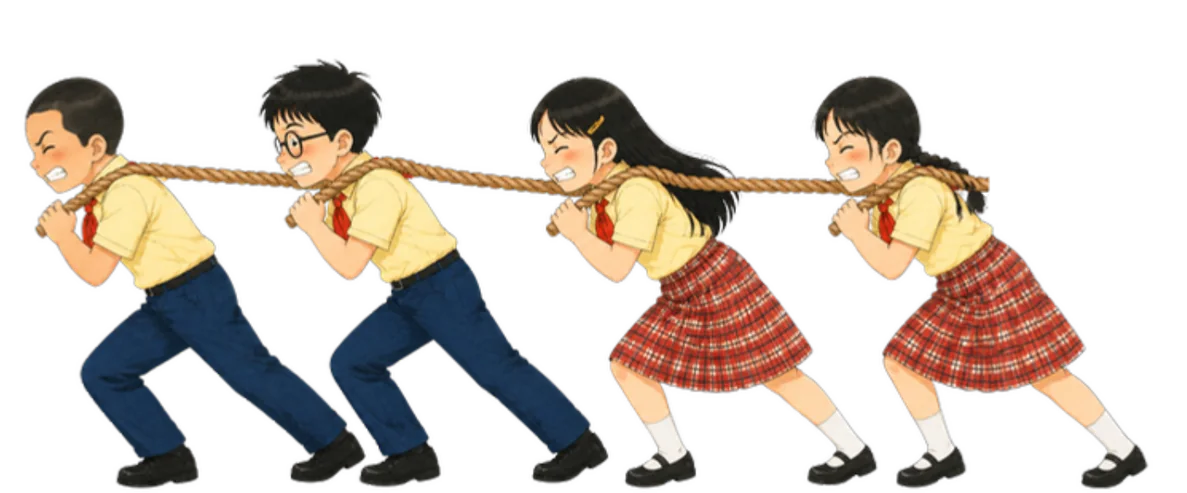
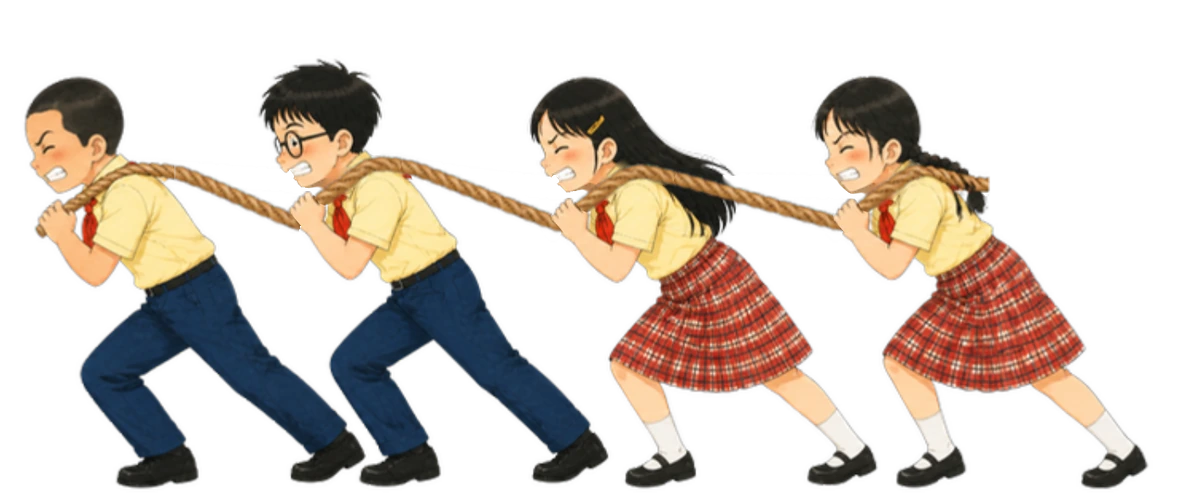
Kéo co: bản 17 (27/11), giữa dây là cái nơ vô cực (bỏ bốn lá cờ và bốn dấu + − × ÷), đuôi nơ ngắn, nút nơ đúng vạch giữa, bỏ hơi kéo thêm lúc cuối; đội áo vàng câu 4, câu 5 vắt dây qua vai liền một sợi; đội đồ thể dục lúc kéo vẽ to bằng đội áo vàng; luật chơi: đưa cái nơ về phía đội mình; thầy duyệt
Gộp ba bản thử ở nhánh phụ: claude/keo-co-ban-15 (0ed69ba, lời thầy 9:53, 9:55, 9:56), claude/keo-co-ban-16 (5ac6fe7, lời thầy 10:45), claude/keo-co-ban-17 (8b696ae, lời thầy 11:16).

Claude-Session: https://claude.ai/code/session_01GiuFNPG9BDcgRRyX99famq

Changed region(s): [[0.1247, 0.3043, 0.7793, 0.4868]]

diff --git a/keo-co/js/keo-co.js b/keo-co/js/keo-co.js
@@ -61,17 +61,34 @@
   //   chui ra sau bím tóc bạn đứng trong cùng (nam.ha mới). dayTT: sợi dây trong hình của tư thế đó dày bao nhiêu điểm ảnh gốc khi khác
   //   vanH (khúc dây trang tự vẽ thu theo cho khít); chanTT: chỗ bàn chân của tư thế đó khi khác CHAN_F. Hình "ha" của đội áo thể dục
   //   (ngả người ra sau, dây ngang ngực) thầy không nhắc tới: giữ nguyên.
+  //   27/11/2026 10:45 thầy Thịnh (gửi ảnh đội áo vàng vắt dây qua vai): "cái dây bị lỗi mỗi bạn cầm một dây nè, chỉnh lại là bạn để tay lên
+  //   dây rồi kéo á." Trong hình vắt vai, dây từ vai mỗi bạn vòng xuống nắm tay rồi hết ở đó (đầu dây lòi ra dưới nắm tay), nên nhìn như mỗi
+  //   bạn cầm một sợi riêng. Nên d2-ha.webp về lại hình của bản 4 (25/11): bốn bạn hạ người, cả bốn nắm chung một sợi dây bằng hai tay;
+  //   nam.ha của hình đó, bỏ dayTT và chanTT của hình vắt vai. Hình hạ người cao 210 đến 219 điểm ảnh trên sân, đội áo thể dục "ha" phóng
+  //   1,15 lần cao 205 đến 225: hai đội vẫn cân.
+  //   11:16 thầy xem bản 16: "Cho cái dây nơ ngắn lại, tôi muốn dây để lên vai nhưng vẽ hợp lí hơn". Nên (bản 17) d2-ha.webp lại là hình
+  //   vắt dây qua vai của 25/11 22:12, nhưng sửa cho dây liền một sợi: dây từ giữa sân vắt qua vai bạn đứng trong cùng, vòng xuống hai
+  //   nắm tay, từ nắm tay chạy lên vai bạn đứng trước, cứ thế tới bạn cuối cùng (bạn này giữ đuôi dây như cũ). Bỏ khúc dây cũ chạy ngang
+  //   dưới cằm ba bạn và ba đầu dây cụt dưới nắm tay (cách làm: hinh-day-vai-ban-17/sua17.py trong thư mục dự án). Khúc dây chui ra sau
+  //   bím tóc và bàn chân giữ y như hình vắt vai cũ, nên nam.ha, dayTT, chanTT lấy lại số của hình đó.
   //   27/11/2026 6:54 thầy Thịnh: "sợi dây của đội áo thể dục đang cầm thì nhỏ hơn bên áo vàng." Đo: dây áo thể dục trên sân dày khoảng
   //   6,5 điểm ảnh, dây áo vàng 8,5. Nên sợi dây trong 4 hình cầm dây của đội áo thể dục (d1-keo, -truot, -quay, -ha) và dải vân day-d1
   //   giãn theo chiều đứng 1,35 lần (vân xoắn giữ nhịp cũ, phần khác của hình giữ nguyên; cách làm: thu/day-to-hon.py trong thư mục dự
   //   án), dải vân cao 16 thành 22 hàng: vanH 16 thành 22.
+  //   27/11/2026 9:53 thầy Thịnh (gửi ảnh đội áo vàng đang kéo): "trò kéo co học sinh 2 bên nhìn không cân, bên đồ thể dục nhỏ hơn bên áo
+  //   vàng. chỉnh lại nhé cho 2 bên cân đối." Đo trên sân (điểm ảnh màn hình): đầu các bạn hai đội to bằng nhau, đứng thẳng cao bằng nhau
+  //   (284), nhưng lúc cầm dây đội áo thể dục ngả người nhiều hơn nên thấp hơn: đỉnh đầu cách mặt sân "keo" 245 / 268 (áo vàng), "truot"
+  //   242 / 271, "quay" 244 / 264, "ha" 187 / 241 (hạ người). Nên bốn hình cầm dây của đội áo thể dục phóng to quanh chân (gốc 50% 97% của
+  //   khung) toTT lần: 1,1 ("ha" 1,15, vẫn là dáng hạ người); hình đứng (thắng, thua, từng bạn bắt tay) giữ nguyên. Sợi dây, vết nứt, bụi
+  //   tính theo cỡ đã phóng.
   const HINH = [
-    { k: "d1", w: 1175, h: 543, base: 529, s: .62, dinh: 0, nam: { keo: [94, 297.5], truot: [91, 298.2], quay: [96, 296.2], ha: [144, 378] }, vanH: 22, duoc: .225,
+    { k: "d1", w: 1175, h: 543, base: 529, s: .62, dinh: 0, nam: { keo: [94, 297.5], truot: [91, 298.2], quay: [96, 296.2], ha: [144, 378] }, vanH: 22, duoc: .225, toTT: { keo: 1.1, truot: 1.1, quay: 1.1, ha: 1.15 },
       ban: [[202, 465, 461, 67.5, 197, 198.5, 95.5], [204, 465, 460, 67, 199, 195, 346.5], [218, 466, 462, 76, 213, 189, 591.5], [241, 466, 461, 97.5, 236, 187, 829.5]] },
     { k: "d2", w: 1187, h: 493, base: 487, s: .585, dinh: 12, nam: { keo: [163, 216.8], truot: [150, 222.2], quay: [147, 226.5], ha: [198.5, 184.2] }, vanH: 21, dayTT: { ha: 14.4 }, chanTT: { ha: [.065, .294, .532, .736] }, duoc: .205,
       ban: [[213, 492, 487, 70.5, 208, 184, 76.5], [209, 493, 488, 78, 205, 192.5, 355], [230, 494, 489, 88.5, 225, 183, 626], [227, 493, 488, 81.5, 222, 182.5, 913]] }
   ];
   const TU_THE = ["keo", "truot", "quay", "ha", "thang", "thua"];
+  const toTT = (d, p) => (HINH[d].toTT && HINH[d].toTT[p]) || 1;      // hình tư thế p của đội d phóng bấy nhiêu lần (27/11 9:53)
   const BEN_O = [null, null];                       // khung hình của đội đang đứng bên trái, bên phải (lúc dây ở vạch giữa): tinhO() đặt lại mỗi lần đổi bên
   const DAY_DAT = GND - 5;                          // dây nằm dưới đất (lúc hai đội buông dây)
   const DAU_Y = 556;                                // ngang đỉnh đầu các bạn (đặt bóng tiếng hò)
@@ -87,6 +104,8 @@
   const CHAN_F = [[.07, .3, .51, .73], [.065, .25, .445, .65]];      // bàn chân trước của từng bạn (theo ĐỘI): cách mép TRONG của khung hình bao nhiêu phần bề rộng
   let TT_BEN = ["keo", "keo"];                      // tư thế đang vẽ của đội đứng mỗi BÊN (ve() ghi): tư thế có chanTT thì lấy chỗ bàn chân ở đó
   const chanF = (b, k) => { const d = ben(b), H = HINH[d], v = H.chanTT && H.chanTT[TT_BEN[b]]; return (v || CHAN_F[d])[k]; };
+  const ktBen = b => toTT(ben(b), TT_BEN[b]);       // cỡ phóng của hình đang vẽ ở bên b
+  const phongX = (b, x) => { const O = BEN_O[b], c = O.x + O.w / 2; return c + (x - c) * ktBen(b); };      // chỗ x trong khung bên b sau khi phóng quanh giữa khung
   const NUT = 14, SOI = 24, BUI_CAO = 8;              // 2 vết nứt mỗi nấc (nhiều nhất 7 nấc); sỏi và bụi chia hai lượt theo nấc chẵn, lẻ
   // cụm bụi vẽ kiểu mây: mấy hình tròn chồng nhau, mặt dưới sẫm, thân màu đất, phía trên sáng
   const mayBui = (w, h, ds) => {
@@ -139,7 +158,8 @@
   //   địa chỉ: "co" = bốn lá cờ nhỏ treo trên dây mang bốn phép tính + − × ÷ (mặc định của bản mẫu); "hinh" = bốn hạt xâu vào dây hình
   //   vuông, tam giác đều, hình tròn, lục giác đều; "thuoc" = khúc dây giữa bọc một dải thước đo, mỗi vạch cách nhau đúng một nấc dây
   //   (PXN), số đếm từ dải lụa đỏ ra hai phía; "khong" = dây trơn như bản 8.
-  const KIEU_DAY = (/[?&]day=(co|hinh|thuoc|khong)\b/.exec(location.search) || [])[1] || "co";
+  //   27/11/2026 (bản 15) mặc định là "no": cái nơ giữa dây (bản 16: nơ vô cực NO_VC bên dưới); các kiểu cũ vẫn mở được bằng ?day=.
+  const KIEU_DAY = (/[?&]day=(no|co|hinh|thuoc|khong)\b/.exec(location.search) || [])[1] || "no";
   const TOAN_O = [-102, -34, 34, 102];              // bốn hình cách dải lụa bấy nhiêu điểm ảnh dọc theo sợi dây
   const TOAN_MAU = [["#f6c544", "#b07a12", "#fff0a8"], ["#72c56b", "#3b8a3a", "#c9f0b4"], ["#5fbdea", "#2a7fb5", "#cdefff"], ["#b892ea", "#7550b8", "#eadcff"]];   // mặt, viền, vệt sáng
   const PHEP = ["M23 17 V37 M13 27 H33", "M13 27 H33", "M15.6 19.6 L30.4 34.4 M30.4 19.6 L15.6 34.4", "M13 27 H33 M23 18 h.01 M23 36 h.01"];      // + − × ÷
@@ -150,6 +170,29 @@
   const HAT_SANG = ["M12.5 30 V13.5 H24", "M15 34 L24 17.5", "M11.5 24 A12.5 12.5 0 0 1 24 11.5", "M11.5 24 L17.5 13.5 H25"];
   const HAT_TOAN = TOAN_MAU.map((m, i) => '<svg viewBox="0 0 48 48" aria-hidden="true">' + HAT_DANG[i] + ' fill="' + m[0] + '" stroke="' + m[1] + '" stroke-width="2.8" stroke-linejoin="round"/>' +
     '<path d="' + HAT_SANG[i] + '" fill="none" stroke="' + m[2] + '" stroke-width="2.6" stroke-linecap="round" stroke-linejoin="round" opacity=".9"/></svg>');
+  // 27/11/2026 9:53 thầy Thịnh: "chỉnh lại 4 cái dấu + - x : thành cái nơ đi nhưng cái nơ đó có kí hiệu + - x : á. tại để 4 cái thẻ + - x :
+  //   như vậy thì nó bị lỗi kéo giật về." 9:55: "ý là trong phiên bản hồi nãy vì tôi nói là đội thắng kéo cả 4 dấu + - x : về phía mình á
+  //   nên ví dụ đội 2 thắng nhưng dấu cộng vẫn ở phía đội 1 thì đội 2 phải giật về thêm 1 cái. nên giờ chuyển thành cái nơ cho khỏi bị"
+  //   9:56: "với đổi luật luôn đưa 4 dấu cộng trừ nhân chia về phía đội mình là được." Bản 15 (không đưa lên trang): bỏ bốn lá cờ, giữa
+  //   dây một cái nơ to (khung 128 × 168) có bốn huy hiệu + − × ÷ thả dưới nút nơ.
+  //   10:45 thầy xem bản 15: "thôi bỏ dấu cộng trừ nhân chia đi, đổi lại thành cái nơ có kích cỡ như ở bản đầu tiên nhưng vẽ giống kí
+  //   hiệu vô cực." Nên (bản 16) không còn dấu + − × ÷ nào; cái nơ cùng khung, cùng cỡ với dải lụa đỏ đầu tiên (DAI_LUA ở trên, bản 4 đến 8:
+  //   khung 90 × 150, nút nơ ở (45, 12), hai đuôi y như cũ), còn hai quai nơ vẽ thành kí hiệu vô cực ∞: một dải lụa đỏ uốn hình số 8 nằm
+  //   ngang, hai nét giao nhau ở nút nơ, lòng hai quai để trống nên nhìn qua thấy sợi dây. Nơ đung đưa như dải lụa cũ (kcDen). Nút nơ nằm
+  //   đúng vạch giữa lúc dây ở 0 nấc (bản 15), nên dây lệch về bên nào là nút nơ sang hẳn bên đó, không kéo thêm.
+  //   11:16 thầy xem bản 16: "Cho cái dây nơ ngắn lại, tôi muốn dây để lên vai nhưng vẽ hợp lí hơn". Nên (bản 17) hai đuôi nơ chỉ còn
+  //   dài tới khoảng y = 86 trong khung (đuôi cũ tới y = 145), vẫn xẻ chữ V ở cuối; hai quai ∞ và nút nơ giữ y như bản 16.
+  const VO_CUC = "M45 12 C50.5 4.5 56 -1.5 63 -1.5 C71.5 -1.5 78 4.5 78 12 C78 19.5 71.5 25.5 63 25.5 C56 25.5 50.5 19.5 45 12 " +
+    "C39.5 4.5 34 -1.5 27 -1.5 C18.5 -1.5 12 4.5 12 12 C12 19.5 18.5 25.5 27 25.5 C34 25.5 39.5 19.5 45 12 Z";      // ∞, tâm ở nút nơ
+  const NO_VC = '<svg viewBox="0 0 90 150" aria-hidden="true">' +
+    '<path d="M46 12 C53 28 63 40 63 56 C63 63 66 69 71 75 L60 72 L55 81 C52 70 50 60 50 50 C50 36 47 24 42 14 Z" fill="#c21d1d"/>' +
+    '<path d="M38 12 C30 28 19 44 20 60 C21 68 18 74 13 80 L25 77 L32 86 C36 76 36 68 38 58 C40 42 44 28 46 14 Z" fill="#e22b2b"/>' +
+    '<path d="M35 22 C30 34 25 46 25 60" fill="none" stroke="#ff8a78" stroke-width="2.4" stroke-linecap="round" opacity=".75"/>' +
+    '<g fill="none" stroke-linejoin="round"><path d="' + VO_CUC + '" stroke="#a31515" stroke-width="10.5"/><path d="' + VO_CUC + '" stroke="#ea3a3a" stroke-width="7.4"/>' +
+    '<path d="M51 16.5 C56 22.5 59.5 23.6 63 23.6 C69.5 23.6 74.6 19.6 75.8 14.6 M39 16.5 C34 22.5 30.5 23.6 27 23.6 C20.5 23.6 15.4 19.6 14.2 14.6" stroke="#b81d1d" stroke-width="2" stroke-linecap="round" opacity=".75"/>' +
+    '<path d="M51 7.5 C55.5 2.2 59.5 .4 63 .4 C68.5 .4 72.8 3 74.9 7 M39 7.5 C34.5 2.2 30.5 .4 27 .4 C21.5 .4 17.2 3 15.1 7" stroke="#ff9a8a" stroke-width="2.2" stroke-linecap="round" opacity=".9"/></g>' +
+    '<ellipse cx="45" cy="12" rx="9" ry="8" fill="#f04a4a" stroke="#a31515" stroke-width="1.6"/><path d="M40.3 8.3 C42.3 6.6 45.4 6.2 48.2 7.4" fill="none" stroke="#ffb1a3" stroke-width="1.8" stroke-linecap="round"/></svg>';
+  const NEO = [45, 12];                             // nút nơ (hay nút dải lụa cũ) trong khung #kcNeo
   const THUOC_CAO = 34, THUOC_DAI = 240;            // dải thước đo: cao, dài nhất mỗi nửa (11 vạch số)
   const thuocNen = phai => {                        // nửa bên phải dải lụa: số tăng dần sang phải kể từ mép trái; nửa bên trái thì ngược lại
     let h = '<svg xmlns="http://www.w3.org/2000/svg" width="' + THUOC_DAI + '" height="' + THUOC_CAO + '" viewBox="0 0 ' + THUOC_DAI + " " + THUOC_CAO + '"><rect x="-6" y="1.6" width="' + (THUOC_DAI + 12) + '" height="' + (THUOC_CAO - 3.2) + '" fill="#fff6d2" stroke="#b3560f" stroke-width="2.6"/><path d="M-6 ' + (THUOC_CAO - 6.5) + " H" + (THUOC_DAI + 6) + '" stroke="#f0d9a0" stroke-width="5"/>';
@@ -325,12 +368,12 @@
   // 25/11 22:30 thầy: "đội nào thắng thì đuốc sẽ được thắp sáng luôn nhé, không cần tôi bấm": kéo xong câu 5, đội thắng mừng T_TU giây (hòa
   //   cả ván: T_TU_HOA giây) thì trang tự sang bước thắp đuốc (KC.khiXongCau5 do tro-choi.js gắn)
   const T_TU = 1.7, T_TU_HOA = .9;
-  // 27/11/2026 6:54 thầy Thịnh: "bạn thiết kế lại sao cho đến ván cuối thì đội nào thắng thì sẽ kéo 4 lá cờ về phía sân của mình". Bốn lá cờ
-  //   treo cách dải lụa tới 102 px (lá rộng 50 px), nên dây lệch từ 7 nấc (140 px) trở lên thì cả bốn lá đã sang hẳn một bên vạch giữa. Kéo
-  //   xong câu 5 mà cả ván có đội thắng và dây lệch chưa tới NAC_CO nấc: đội thắng kéo thêm một hơi (KEO_CO_DAI giây, không thêm tiếng) cho dây
-  //   lệch đủ NAC_CO nấc về phía mình. Thước nấc vẫn chỉ số nấc thật. Sang bước thắp đuốc, hai đội buông dây về chỗ cạnh cây đuốc như cũ nhưng
-  //   sợi dây (cùng dải lụa, bốn lá cờ) nằm yên dưới đất bên phía đội thắng, tới hết phần bắt tay.
-  const NAC_CO = 8, KEO_CO_DAI = 1;
+  // 27/11/2026 6:54 thầy Thịnh: "bạn thiết kế lại sao cho đến ván cuối thì đội nào thắng thì sẽ kéo 4 lá cờ về phía sân của mình". Bản 11 đến 14:
+  //   kéo xong câu 5 mà dây lệch chưa tới 8 nấc thì đội thắng kéo thêm một hơi cho cả bốn lá cờ sang hẳn sân mình.
+  //   27/11 9:55 thầy: "ví dụ đội 2 thắng nhưng dấu cộng vẫn ở phía đội 1 thì đội 2 phải giật về thêm 1 cái. nên giờ chuyển thành cái nơ cho
+  //   khỏi bị" (bản 15): bỏ hơi kéo thêm đó. Giữa dây là một cái nơ (bản 16: nơ vô cực NO_VC, không còn dấu + − × ÷), nút nơ ở đúng vạch
+  //   giữa lúc dây ở 0 nấc, đội thắng cả ván dẫn ít nhất 1 nấc là nút nơ đã ở bên sân đội đó. Sang bước thắp đuốc, hai đội buông dây về chỗ cạnh cây đuốc như cũ, sợi dây và cái nơ nằm yên dưới đất đúng chỗ dây
+  //   dừng sau câu 5 (đúng số nấc thật), tới hết phần bắt tay.
 
   const S = { che: "an", q: 0, kc: [], t0: XA, phu: false, tinh: false, ket: 0, cues: [], L: null, d1Trai: false, doi: null, chay: null, daTu: false, m0: [0, 0] };
   let E = null;
@@ -427,9 +470,11 @@
       //   vân dây theo đội đang đứng mỗi bên do datBen() đặt
       '<div class="kc-day-dat t"></div><div class="kc-day-dat p"></div><div class="kc-day t"></div><div class="kc-day p"></div>' +
       // 26/11 11:09 (bản mẫu): hình Toán ở khúc dây giữa hai đội, kiểu theo KIEU_DAY
-      (KIEU_DAY === "thuoc" ? '<div class="kc-thuoc-do t"></div><div class="kc-thuoc-do p"></div>' : KIEU_DAY === "khong" ? "" :
+      (KIEU_DAY === "thuoc" ? '<div class="kc-thuoc-do t"></div><div class="kc-thuoc-do p"></div>' : KIEU_DAY === "khong" || KIEU_DAY === "no" ? "" :
         TOAN_O.map((o, i) => '<div class="kc-toan ' + KIEU_DAY + '"><span class="la"><span class="lac" style="animation-delay:-' + (i * .55).toFixed(2) + 's">' + (KIEU_DAY === "co" ? CO_TOAN[i] : HAT_TOAN[i]) + "</span></span></div>").join("")) +
-      HINH.map(H => '<div class="kc-doi-boc">' + TU_THE.map(p => '<img class="kc-doi" data-p="' + p + '" src="hinh/' + H.k + "-" + p + '.webp" alt="" draggable="false"' +
+      // 27/11 10:45 (bản 16): hình d2-ha.webp đổi mà tên tệp giữ nguyên, nên hình hai đội mang mã phiên bản của trang (TV đã mở bản cũ trong vòng
+      //   10 phút vẫn lấy hình mới, không dùng hình cũ trong bộ nhớ trình duyệt)
+      HINH.map(H => '<div class="kc-doi-boc">' + TU_THE.map(p => '<img class="kc-doi" data-p="' + p + '" src="hinh/' + H.k + "-" + p + '.webp?v=' + (window.RD_V || "") + '" alt="" draggable="false"' +
         (p === "thang" && H.dinh ? ' style="top:' + (-H.dinh / H.h * 100).toFixed(3) + "%;height:" + ((H.h + H.dinh) / H.h * 100).toFixed(3) + '%"' : "") + ">").join("") + "</div>").join("") +
       // từng bạn chìa tay bắt tay (xếp theo ĐỘI rồi theo bạn): khung gốc đặt ở giữa hai bàn chân, <i> là bóng dưới chân
       HINH.map(H => H.ban.map((B, k) => '<div class="kc-ban"><i></i><img src="hinh/' + H.k + "-b" + k + '.webp" alt="" draggable="false"></div>').join("")).join("") +
@@ -437,7 +482,8 @@
       '<div class="kc-tia" id="kcTia">' + [0, 1, 2, 3, 4, 5, 6, 7].map(() => "<i></i>").join("") + "</div>" +
       [0, 1, 2, 3].map(() => '<div class="kc-tia bt">' + [0, 1, 2, 3, 4, 5, 6, 7].map(() => "<i></i>").join("") + "</div>").join("") +      // tia sáng ở chỗ bốn cặp bắt tay
       // 26/11 12:20 thầy Thịnh: "bỏ cái nơ trên dây kéo đi đổi thành 4 lá cờ": khung dải lụa còn đó (tia sáng lúc kéo vẫn loé ở giữa dây) nhưng không vẽ nơ nữa
-      '<div class="kc-den-neo" id="kcNeo"><div class="kc-den-boc"><div class="kc-den" id="kcDen"></div></div></div>';
+      //   27/11 9:53 (bản 15): khung này vẽ lại cái nơ; 10:45 (bản 16): nơ vô cực cỡ như dải lụa đầu tiên (NO_VC), không còn dấu + − × ÷
+      '<div class="kc-den-neo" id="kcNeo"><div class="kc-den-boc"><div class="kc-den" id="kcDen">' + (KIEU_DAY === "no" ? NO_VC : "") + "</div></div></div>";
     for (let b = 0; b < 2; b++) BUI_F.forEach((f, j) => { h += '<div class="kc-bui b' + b + '" style="top:' + (GND - (j % 2 ? 28 : 34)) + 'px;width:124px;height:60px">' + BUI_THAP_SVG + "</div>"; });
     for (let b = 0; b < 2; b++) for (let k = 0; k < 2; k++) h += '<div class="kc-ho b' + b + '"></div>';
     const muiTen = lat => '<svg class="kc-mui ' + (lat ? "m1" : "m2") + '" style="left:' + (lat ? 776 : 1048) + "px" + (lat ? ";transform:scaleX(-1)" : "") + '" width="96" height="40" viewBox="0 0 96 40" aria-hidden="true"><g fill="none" stroke="#fff" stroke-width="7" stroke-linecap="round" stroke-linejoin="round"><path d="M8 6 L24 20 L8 34" opacity=".45"/><path d="M38 6 L54 20 L38 34" opacity=".75"/><path d="M68 6 L84 20 L68 34"/></g></svg>';
@@ -623,16 +669,9 @@
   function lichKeo(K) {
     const n = K.buoc.length, gap = n > 4 ? .5 : .62, tb = K.q === 5 && n && K.thang ? T_TB : null, tre = tb != null ? TB_TRE : 0;
     const moc = K.buoc.map((b, i) => T_K + tre + i * gap + (i >= K.nac ? .75 : 0));
-    let het = n ? moc[n - 1] + .9 : T_K + .3, vuot = null, c = K.truoc, keoCo = null;
+    let het = n ? moc[n - 1] + .9 : T_K + .3, vuot = null, c = K.truoc;
     K.buoc.forEach((b, i) => { c += b; if (vuot == null && K.truoc && c && (c > 0) !== (K.truoc > 0)) vuot = i; });
-    // 27/11 6:54: câu 5, cả ván có đội thắng mà dây lệch chưa đủ NAC_CO nấc: đội thắng kéo thêm m nấc (có dấu như vt) cho bốn lá cờ sang sân mình
-    const lech = Math.min(Math.abs(K.sau), RD.NAC_HIEN);
-    if (K.q === 5 && K.sau && lech < NAC_CO) {
-      const tu = n ? moc[n - 1] + .55 : T_K + .2;
-      keoCo = { tu: tu, dai: KEO_CO_DAI, m: (K.sau > 0 ? 1 : -1) * (NAC_CO - lech) };
-      het = tu + KEO_CO_DAI + .3;
-    }
-    return { moc: moc, het: het, sao: het, ket: het + (K.thang ? 1.7 : 1.1), loi: loiCau(K), vuot: vuot, tb: tb, keoCo: keoCo };      // câu hòa cũng có sao bay (0,8 giây)
+    return { moc: moc, het: het, sao: het, ket: het + (K.thang ? 1.7 : 1.1), loi: loiCau(K), vuot: vuot, tb: tb };      // câu hòa cũng có sao bay (0,8 giây)
   }
 
   /* ---------- điều khiển từ trò chơi ---------- */
@@ -779,10 +818,8 @@
         if (q === 3) dat(phe, "quay", tA);
         if (q === 4) dat(phe, "ha", tA);
         if (q === 5) { dat(phe, "ha", tA); dat(kia, "truot", L.moc[Math.min(1, n - 1)] + .1); }
-        if (L.keoCo) { dat(W - 1, "ha", L.keoCo.tu - .3); dat(2 - W, "truot", L.keoCo.tu - .1); }      // 27/11: đội thắng cả ván hạ người kéo thêm, đội kia trượt chân
         if (q === 5 && W) { dat(W - 1, "thang", tR); dat(2 - W, "thua", tR); } else { dat(0, "keo", tR); dat(1, "keo", tR); }
       } else {
-        if (L.keoCo) { dat(W - 1, "ha", L.keoCo.tu - .3); dat(2 - W, "truot", L.keoCo.tu - .1); }
         if (q === 5 && W && u >= L.het + T_MUNG) { dat(W - 1, "thang", L.het + T_MUNG); dat(2 - W, "thua", L.het + T_MUNG); }      // câu 5 hòa nhưng cả ván đã có đội thắng
       }
     } else if (che === "dich" || che === "tuong") {
@@ -840,7 +877,8 @@
       if (P.rung) tx += 1.6 * P.rung * Math.sin(t * 75 + b * 2);
       const dp = P.pop[b];
       if (dp >= 0 && dp < .22) { const s = Math.sin(Math.PI * dp / .22); sx = 1 + .035 * s; sy = 1 - .05 * s; }           // nhún một cái lúc đổi tư thế
-      kieu(bc, "transform", "translate(" + px(tx) + "," + px(ty) + ") skewX(" + (-nga).toFixed(2) + "deg)" + (sx !== 1 ? " scale(" + sx.toFixed(3) + "," + sy.toFixed(3) + ")" : ""));
+      const kt = toTT(d, p); sx *= kt; sy *= kt;          // 27/11 9:53: đội áo thể dục lúc cầm dây vẽ to hơn (HINH.toTT)
+      kieu(bc, "transform", "translate(" + px(tx) + "," + px(ty) + ") skewX(" + (-nga).toFixed(2) + "deg)" + (sx !== 1 || sy !== 1 ? " scale(" + sx.toFixed(3) + "," + sy.toFixed(3) + ")" : ""));
       lop(bc, "vang", P.vang === b);
       kieu(E.bongDoi[b], "opacity", p === "ban" ? "0" : "1");
       // đầu dây ở nắm tay trong cùng (tâm của phép biến hình là 50% 97% khung)
@@ -852,12 +890,16 @@
       kieu(E.dayDat[b], "transform", P.day ? "translateX(" + px(P.day) + ")" : "");      // 27/11: hai đội về chỗ, sợi dây nằm yên bên phía đội thắng
       roiTB += k / 2;
     }
-    const M = [(A[0][0] + A[1][0]) / 2, (A[0][1] + A[1][1]) / 2];
+    // 27/11 9:53 (bản 15): nút nơ (cũng là chỗ hai nửa dây gặp nhau) buộc đúng giữa sợi dây theo luật: dây ở vạch giữa (0 nấc) thì nút nơ ở
+    //   ngay vạch giữa (x 960 của sân), dây lệch v nấc thì cả cụm dời dx = v × PXN nên nơ lệch đúng chừng ấy. Bản 14 trở về trước lấy trung
+    //   điểm hai nắm tay nên nơ, cờ nằm lệch trái 18,5 px. Dây rơi xuống đất (phần kết) thì nút nơ dời theo P.day như hai đầu dây.
+    const mx = 960 + (P.day || 0) * roiTB, tM = Math.max(.05, Math.min(.95, (mx - A[0][0]) / ((A[1][0] - A[0][0]) || 1)));
+    const M = [A[0][0] + (A[1][0] - A[0][0]) * tM, A[0][1] + (A[1][1] - A[0][1]) * tM];
     const kDay = b => { const H = HINH[ben(b)], v = H.dayTT && H.dayTT[P.tt[b]]; return v ? v / H.vanH : 1; };
     veDay(E.day[0], A[0], M, HINH[ben(0)], false, kDay(0));
     veDay(E.day[1], M, A[1], HINH[ben(1)], true, kDay(1));
     // dải lụa đỏ buộc ở giữa dây: che chỗ hai nửa dây gặp nhau; dây rơi xuống đất thì dải lụa nằm bẹp
-    kieu(E.neo, "transform", "translate(" + px(M[0] - 45) + "," + px(M[1] - 12) + ")" + (roiTB > 0 ? " scaleY(" + (1 - .55 * roiTB).toFixed(3) + ")" : ""));
+    kieu(E.neo, "transform", "translate(" + px(M[0] - NEO[0]) + "," + px(M[1] - NEO[1]) + ")" + (roiTB > 0 ? " scaleY(" + (1 - .55 * roiTB).toFixed(3) + ")" : ""));
     lop(E.neo, "nam", roiTB > .5);
     veToan(A, M, roiTB);
     kieu(E.chuVach, "opacity", (1 - roiTB).toFixed(2));          // dải lụa nằm đè lên nhãn "VẠCH GIỮA" thì ẩn nhãn
@@ -962,7 +1004,7 @@
     if (!co) { if (!E.soi._tat) { E.soi._tat = true; E.soi.forEach(el => kieu(el, "opacity", "0")); } return; }
     E.soi._tat = false;
     const dxCua = p => hg * PXN * Math.max(-RD.NAC_HIEN, Math.min(RD.NAC_HIEN, p));
-    const chanX = (b, k) => { const O = BEN_O[b], f = chanF(b, k); return b ? O.x + O.w * f : O.x + O.w * (1 - f); };
+    const chanX = (b, k) => { const O = BEN_O[b], f = chanF(b, k); return phongX(b, b ? O.x + O.w * f : O.x + O.w * (1 - f)); };
     const nutHien = [], soiHien = [], vet = [null, null];
     let vg = null;
     ds.forEach(f => {
@@ -1028,7 +1070,7 @@
     const che = S.che, q = S.q, u = t - S.t0;
     const tran = che === "hoi" || che === "keo", ketCanh = che === "dich" || che === "tuong";
     const cuoi = trong(5), W = cuoi.thang, hg = huong();
-    let p = 0, pThem = 0, sao = [0, 0], lit = [0, 0], thap = [-1, -1], bayTri = -1, LB = null, thangChu = null;      // pThem: nấc kéo thêm cuối ván (27/11), chỉ dời sân
+    let p = 0, sao = [0, 0], lit = [0, 0], thap = [-1, -1], bayTri = -1, LB = null, thangChu = null;
     const mach = [null, null];                        // giây kể từ lúc công thức bắt đầu chạy lên thân đuốc bên b (null: bước này không thắp đuốc đó)
     const C51 = (RD.SanKhau && RD.SanKhau.C51) || [955, 66];
     let sx = 0, sy = 0, la = 0, kh = 0, khD = 0, khLuc = 0, dangKeo = 0, moHUD = 1, an = 0;      // an: 0..1, các khung của lượt kéo mờ đi khi cả ván đã có đội thắng
@@ -1076,23 +1118,6 @@
           // đội đang bị dẫn kéo dải lụa qua vạch giữa
           if (L.vuot != null) { const d = u - L.moc[L.vuot]; if (d > 0 && d < 1.6) { const dk = K.thang || (K.buoc[0] > 0 ? 1 : 2); fx.no = { chu: "ĐỘI " + dk + " VƯỢT LÊN!", d: d, dai: 1.6, lop: "nho d" + dk }; } }
         }
-        // 27/11 6:54: đội thắng cả ván kéo thêm một hơi cho cả bốn lá cờ sang hẳn sân mình: ngả người, bụi ở chân đội kia, vết nứt có ánh
-        //   vàng, vệt gió, đội thắng toả sáng (không thêm tiếng)
-        if (L.keoCo && u > L.keoCo.tu) {
-          const kc = L.keoCo, d = u - kc.tu, b = kc.m > 0 ? 1 : -1, bw = ben(b > 0 ? 0 : 1), sb = hg * b, i = Math.min(K.buoc.length, NUT / 2 - 1);
-          pThem = kc.m * em(cl(d / kc.dai));
-          datT.push({ i: i, d: d, sb: sb, bw: bw, manh: true, p0: p, p1: p + pThem });
-          buiT.push({ d: d, sb: sb, thua: 1 - bw, i: i, manh: true });
-          const e = d < .12 ? d / .12 : Math.exp(-(d - .12) * 2.6);
-          ng[bw] += sb * 6 * e; ng[1 - bw] += sb * 4.2 * e;
-          la += sb * 16 * Math.exp(-d * 3.5) * Math.sin(d * 13);
-          if (d < .22) { const a = 8 * (1 - d / .22); sx += a * Math.sin(d * 95); sy += a * .6 * Math.cos(d * 77); }
-          if (d < .45) fx.vut = { b: sb, d: d, vang: true };
-          if (d < .34) fx.tia = d;
-          if (d < 1.9) fx.la.push({ d: d, b: -sb, i: i });
-          if (d < kc.dai + .2) fx.vang = bw;
-          if (d > -.1 && d < kc.dai) dangKeo = b;
-        }
         // 25/11 17:19 thầy: "chỉ có câu 5 khi chiến thắng thì các bạn học sinh mới nhảy lên thôi": kéo xong câu 5, đội thắng cả ván buông dây
         //   nhảy mừng, hoa giấy tung lên (câu 1 đến câu 4 không ai nhảy)
         if (q === 5 && W) {
@@ -1107,9 +1132,9 @@
     } else if (che === "dau") { p = 0; }
     else { p = cuoi.vt; sao = saoToi(5); }
     // phần kết: hai đội buông dây, cả cụm về lại giữa sân để mỗi đội đứng sát cây đuốc của mình
-    //   27/11 6:54: cả ván có đội thắng thì sợi dây nằm yên dưới đất bên phía đội thắng (lệch ít nhất NAC_CO nấc), dxDay là chỗ của sợi dây
+    //   27/11 9:55 (bản 15): sợi dây và cái nơ nằm yên dưới đất đúng chỗ dây dừng sau câu 5 (số nấc thật); dxDay là chỗ của sợi dây
     const kep = x => Math.max(-RD.NAC_HIEN, Math.min(RD.NAC_HIEN, x)), pv = kep(p);
-    const dxDay = hg * PXN * (ketCanh ? (W ? (W === 1 ? 1 : -1) * Math.max(NAC_CO, Math.abs(kep(cuoi.vt))) : pv) : kep(p + pThem));
+    const dxDay = hg * PXN * pv;
     const dx = ketCanh ? dxDay * (che === "dich" ? 1 - em(lin(u, 0, T_VE)) : 0) : dxDay;
 
     /* --- phần kết: đuốc sáng, tri thức bay lên, bắt tay, tất cả bay về số 51 --- */
@@ -1165,6 +1190,7 @@
           const thua = f.thua === b, x = (f.d - j * .06) / .8;
           if (x > 0 && x < 1) { o = Math.max(o, Math.sin(Math.PI * x) * (thua ? .92 : .6)); sc = (.55 + .5 * x) * (thua ? 1.18 : .8) * [1, .78, 1.08, .86][j]; bx = -f.sb * (16 + 34 * x); by = thua ? -20 * x : -6 * x; }
         });
+        if (o > 0) { const O = BEN_O[b], x0 = b ? O.x + O.w * (1 - BUI_F[j]) : O.x + O.w * BUI_F[j]; bx += phongX(b, x0) - x0; }      // 9:53: theo cỡ hình đã phóng
         kieu(el, "opacity", o.toFixed(3));
         if (o > 0) kieu(el, "transform", "translate(" + px(bx) + "," + px(by) + ") scale(" + (j % 2 ? -sc : sc).toFixed(3) + "," + sc.toFixed(3) + ")");
       });
@@ -1175,7 +1201,7 @@
           if (f.thua !== b || (f.i % 2) * 4 !== j - j % 4) return;
           const k = j % 4, x = (f.d - k * .07) / 1.05;
           if (x <= 0 || x >= 1) return;
-          const O = BEN_O[b], cf = chanF(b, k), cx = b ? O.x + O.w * cf : O.x + O.w * (1 - cf);
+          const O = BEN_O[b], cf = chanF(b, k), cx = phongX(b, b ? O.x + O.w * cf : O.x + O.w * (1 - cf));
           o = Math.pow(Math.sin(Math.PI * Math.pow(x, .6)), .9) * (f.manh ? 1 : .9);
           const sc = (.55 + 1.15 * x) * (f.manh ? 1.2 : 1) * [1.1, .82, 1, .88][k];
           tf = "translate(" + px(cx + f.sb * (44 - 120 * x)) + "," + px(GND - 34 - (f.manh ? 124 : 96) * eo(x)) + ") scale(" + (k % 2 ? -sc : sc).toFixed(3) + "," + sc.toFixed(3) + ")";

diff --git a/keo-co/index.html b/keo-co/index.html
@@ -557,6 +557,7 @@ details.dt-nc summary{cursor:pointer;font-weight:700;color:var(--muc2);margin-to
 .kc-den-boc{position:absolute;inset:0;transform-origin:45px 12px;animation:kcDen 2.2s ease-in-out infinite alternate}
 .kc-den-neo.nam .kc-den-boc{animation:none}
 @keyframes kcDen{from{transform:rotate(-3.5deg)}to{transform:rotate(3.5deg)}}
+/* 27/11/2026 10:45 (bản 16): cái nơ vô cực (js NO_VC) dùng đúng khung 90 × 150 và nhịp đung đưa của dải lụa đỏ đầu tiên ở trên */
 .kc-den{position:absolute;inset:0;transform-origin:45px 12px;filter:drop-shadow(0 4px 4px rgba(40,20,0,.35))}
 .kc-den svg{display:block;width:100%;height:100%;overflow:visible}
 /* 26/11 11:09 thầy Thịnh: "thiết kế cho tôi cái sợi dây kéo co á, mà nó có hình ảnh liên quan đến môn toán". BẢN MẪU (thầy chưa chọn), ba kiểu ở
@@ -810,16 +811,23 @@ details.dt-nc summary{cursor:pointer;font-weight:700;color:var(--muc2);margin-to
            Nên "Cách chơi" để nguyên 5 dòng của bản 8; "Nhiệm vụ" thêm chữ "kéo co" và thay "kéo dải lụa đỏ" (nơ đã bỏ, 12:20) bằng "đưa bốn lá cờ
            cộng, trừ, nhân, chia" (câu chữ là bản nháp của tôi gửi 12:27, thầy đọc rồi chỉ bảo giữ Cách chơi, chưa sửa chữ nào của Nhiệm vụ).
            CÒN LÀ BẢN NHÁP CỦA TÔI, thầy chưa duyệt: dòng thứ ba của "Cách chơi" (đoạn "Nhiệm vụ": xem dòng trên). Thầy gửi lời của thầy thì chép đúng từng
-           chữ vào đây, chỉ chia dòng. 25/11 16:18 chỉ còn 2 cây đuốc (của Đội 1 và Đội 2) nên "ngọn đuốc của nhóm" sửa thành "ngọn đuốc của đội mình". -->
+           chữ vào đây, chỉ chia dòng. 25/11 16:18 chỉ còn 2 cây đuốc (của Đội 1 và Đội 2) nên "ngọn đuốc của nhóm" sửa thành "ngọn đuốc của đội mình".
+           27/11/2026 9:53 thầy: "chỉnh lại 4 cái dấu + - x : thành cái nơ đi nhưng cái nơ đó có kí hiệu + - x : á" và 9:56: "với đổi luật luôn đưa 4 dấu
+           cộng trừ nhân chia về phía đội mình là được." (bản 15): bốn lá cờ thành cái nơ có bốn dấu; "Nhiệm vụ" đổi "bốn lá cờ cộng, trừ, nhân, chia"
+           thành "bốn dấu cộng, trừ, nhân, chia" (chữ của thầy); dòng cuối "Cách chơi" (lời thầy 25/11) đổi "đội kéo được dây về phía mình" thành
+           "đội đưa được bốn dấu cộng, trừ, nhân, chia về phía đội mình" theo lời đổi luật 9:56, phần sau giữ nguyên từng chữ.
+           10:45 thầy: "thôi bỏ dấu cộng trừ nhân chia đi, đổi lại thành cái nơ có kích cỡ như ở bản đầu tiên nhưng vẽ giống kí hiệu vô cực." (bản 16):
+           không còn bốn dấu nên hai chỗ "bốn dấu cộng, trừ, nhân, chia" đổi thành "cái nơ" (vẫn theo lời đổi luật 9:56: đưa về phía đội mình là
+           được), các chữ khác giữ nguyên. Đây là cách tôi chọn chữ, thầy chưa duyệt. -->
       <h2>Nhiệm vụ</h2>
-      <p>Nhóm 1 và nhóm 2 ghép thành Đội 1, nhóm 3 và nhóm 4 ghép thành Đội 2. Nhiệm vụ của hai đội là trả lời 5 câu hỏi thầy đưa ra để kéo co, đưa bốn lá cờ cộng, trừ, nhân, chia về phía đội mình và thắp sáng ngọn đuốc của đội mình.</p>
+      <p>Nhóm 1 và nhóm 2 ghép thành Đội 1, nhóm 3 và nhóm 4 ghép thành Đội 2. Nhiệm vụ của hai đội là trả lời 5 câu hỏi thầy đưa ra để kéo co, đưa cái nơ về phía đội mình và thắp sáng ngọn đuốc của đội mình.</p>
       <h2>Cách chơi</h2>
       <ul>
         <li>Khi câu hỏi hiện lên, mỗi bạn tự suy nghĩ và tính đáp án.</li>
         <li>Khi màn hình báo "Giơ đáp án", mỗi bạn giơ thẻ có chữ cái của đáp án mình chọn, mặt có mã hướng về phía thầy, giữ yên cho đến khi thầy quét xong.</li>
         <li>Mỗi câu, đội nào có tỉ lệ bạn trả lời đúng cao hơn thì kéo được dây về phía đội mình; hơn càng nhiều thì kéo được càng nhiều nấc.</li>
         <li>Mỗi câu hỏi sẽ cho đội chiến thắng nhận được hiệu ứng riêng: Khai cuộc, Đồng lòng, Tăng tốc, Tiếp sức, Về đích.</li>
-        <li>Sau 5 câu, đội kéo được dây về phía mình sẽ được thắp đuốc trước và nhận một phần quà của thầy.</li>
+        <li>Sau 5 câu, đội đưa được cái nơ về phía đội mình sẽ được thắp đuốc trước và nhận một phần quà của thầy.</li>
       </ul>
     </div>
     <button type="button" class="luat-nut luat-hien" id="luatHien" aria-controls="luat" hidden><svg viewBox="0 0 24 24" fill="none" stroke="currentColor" stroke-width="2.4" stroke-linecap="round" stroke-linejoin="round" aria-hidden="true"><path d="M2 12s3.6-7 10-7 10 7 10 7-3.6 7-10 7S2 12 2 12z"/><circle cx="12" cy="12" r="3"/></svg>Hiện luật chơi</button>
@@ -969,18 +977,18 @@ details.dt-nc summary{cursor:pointer;font-weight:700;color:var(--muc2);margin-to
 </div>
 
 <script src="https://cdnjs.cloudflare.com/ajax/libs/qrcode-generator/1.4.4/qrcode.min.js"></script>
-<script>window.RD_V="9e40c915";</script>
-<script src="js/cau-hinh.js?v=9e40c915"></script>
-<script src="js/scanlib.js?v=9e40c915"></script>
-<script src="js/du-lieu.js?v=9e40c915"></script>
-<script src="js/dong-bo.js?v=9e40c915"></script>
-<script src="js/am-thanh.js?v=9e40c915"></script>
-<script src="js/quet.js?v=9e40c915"></script>
-<script src="js/cay-cau.js?v=9e40c915"></script>
-<script src="js/san-khau.js?v=9e40c915"></script>
-<script src="js/keo-co.js?v=9e40c915"></script>
-<script src="js/tro-choi.js?v=9e40c915"></script>
-<script src="js/nhanh.js?v=9e40c915"></script>
-<script src="js/do.js?v=9e40c915"></script>
+<script>window.RD_V="77a43952";</script>
+<script src="js/cau-hinh.js?v=77a43952"></script>
+<script src="js/scanlib.js?v=77a43952"></script>
+<script src="js/du-lieu.js?v=77a43952"></script>
+<script src="js/dong-bo.js?v=77a43952"></script>
+<script src="js/am-thanh.js?v=77a43952"></script>
+<script src="js/quet.js?v=77a43952"></script>
+<script src="js/cay-cau.js?v=77a43952"></script>
+<script src="js/san-khau.js?v=77a43952"></script>
+<script src="js/keo-co.js?v=77a43952"></script>
+<script src="js/tro-choi.js?v=77a43952"></script>
+<script src="js/nhanh.js?v=77a43952"></script>
+<script src="js/do.js?v=77a43952"></script>
 </body>
 </html>
